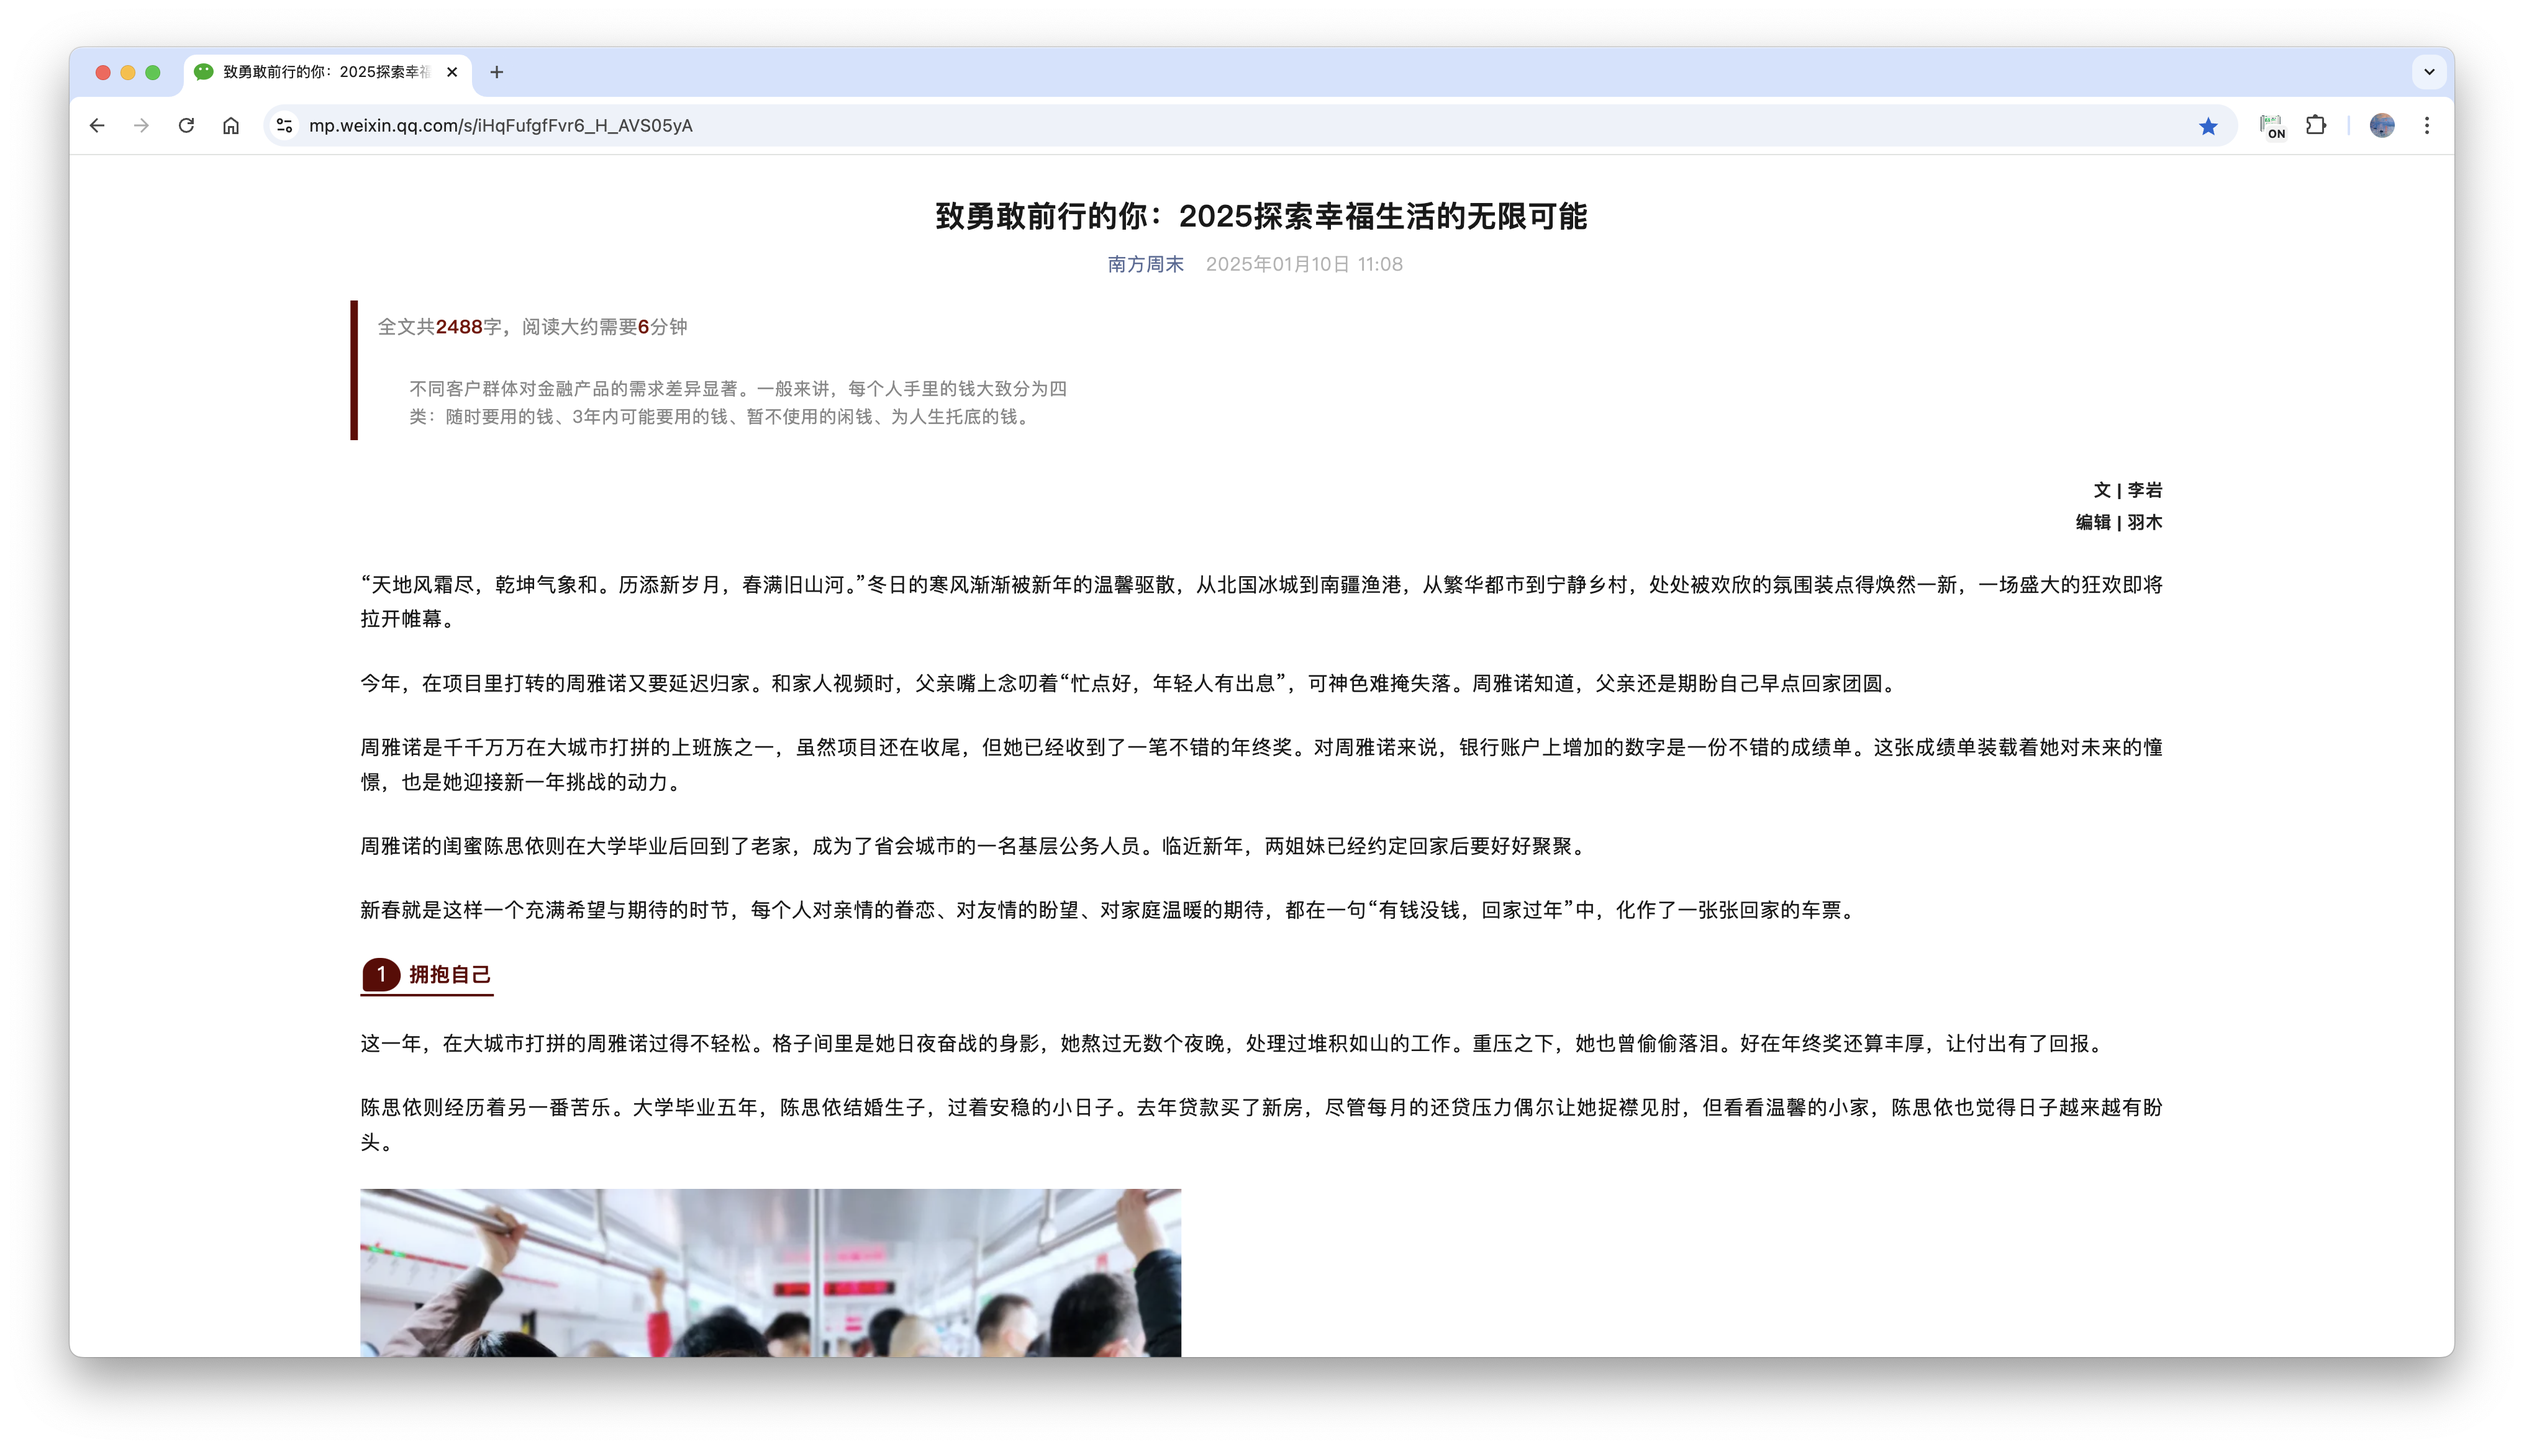
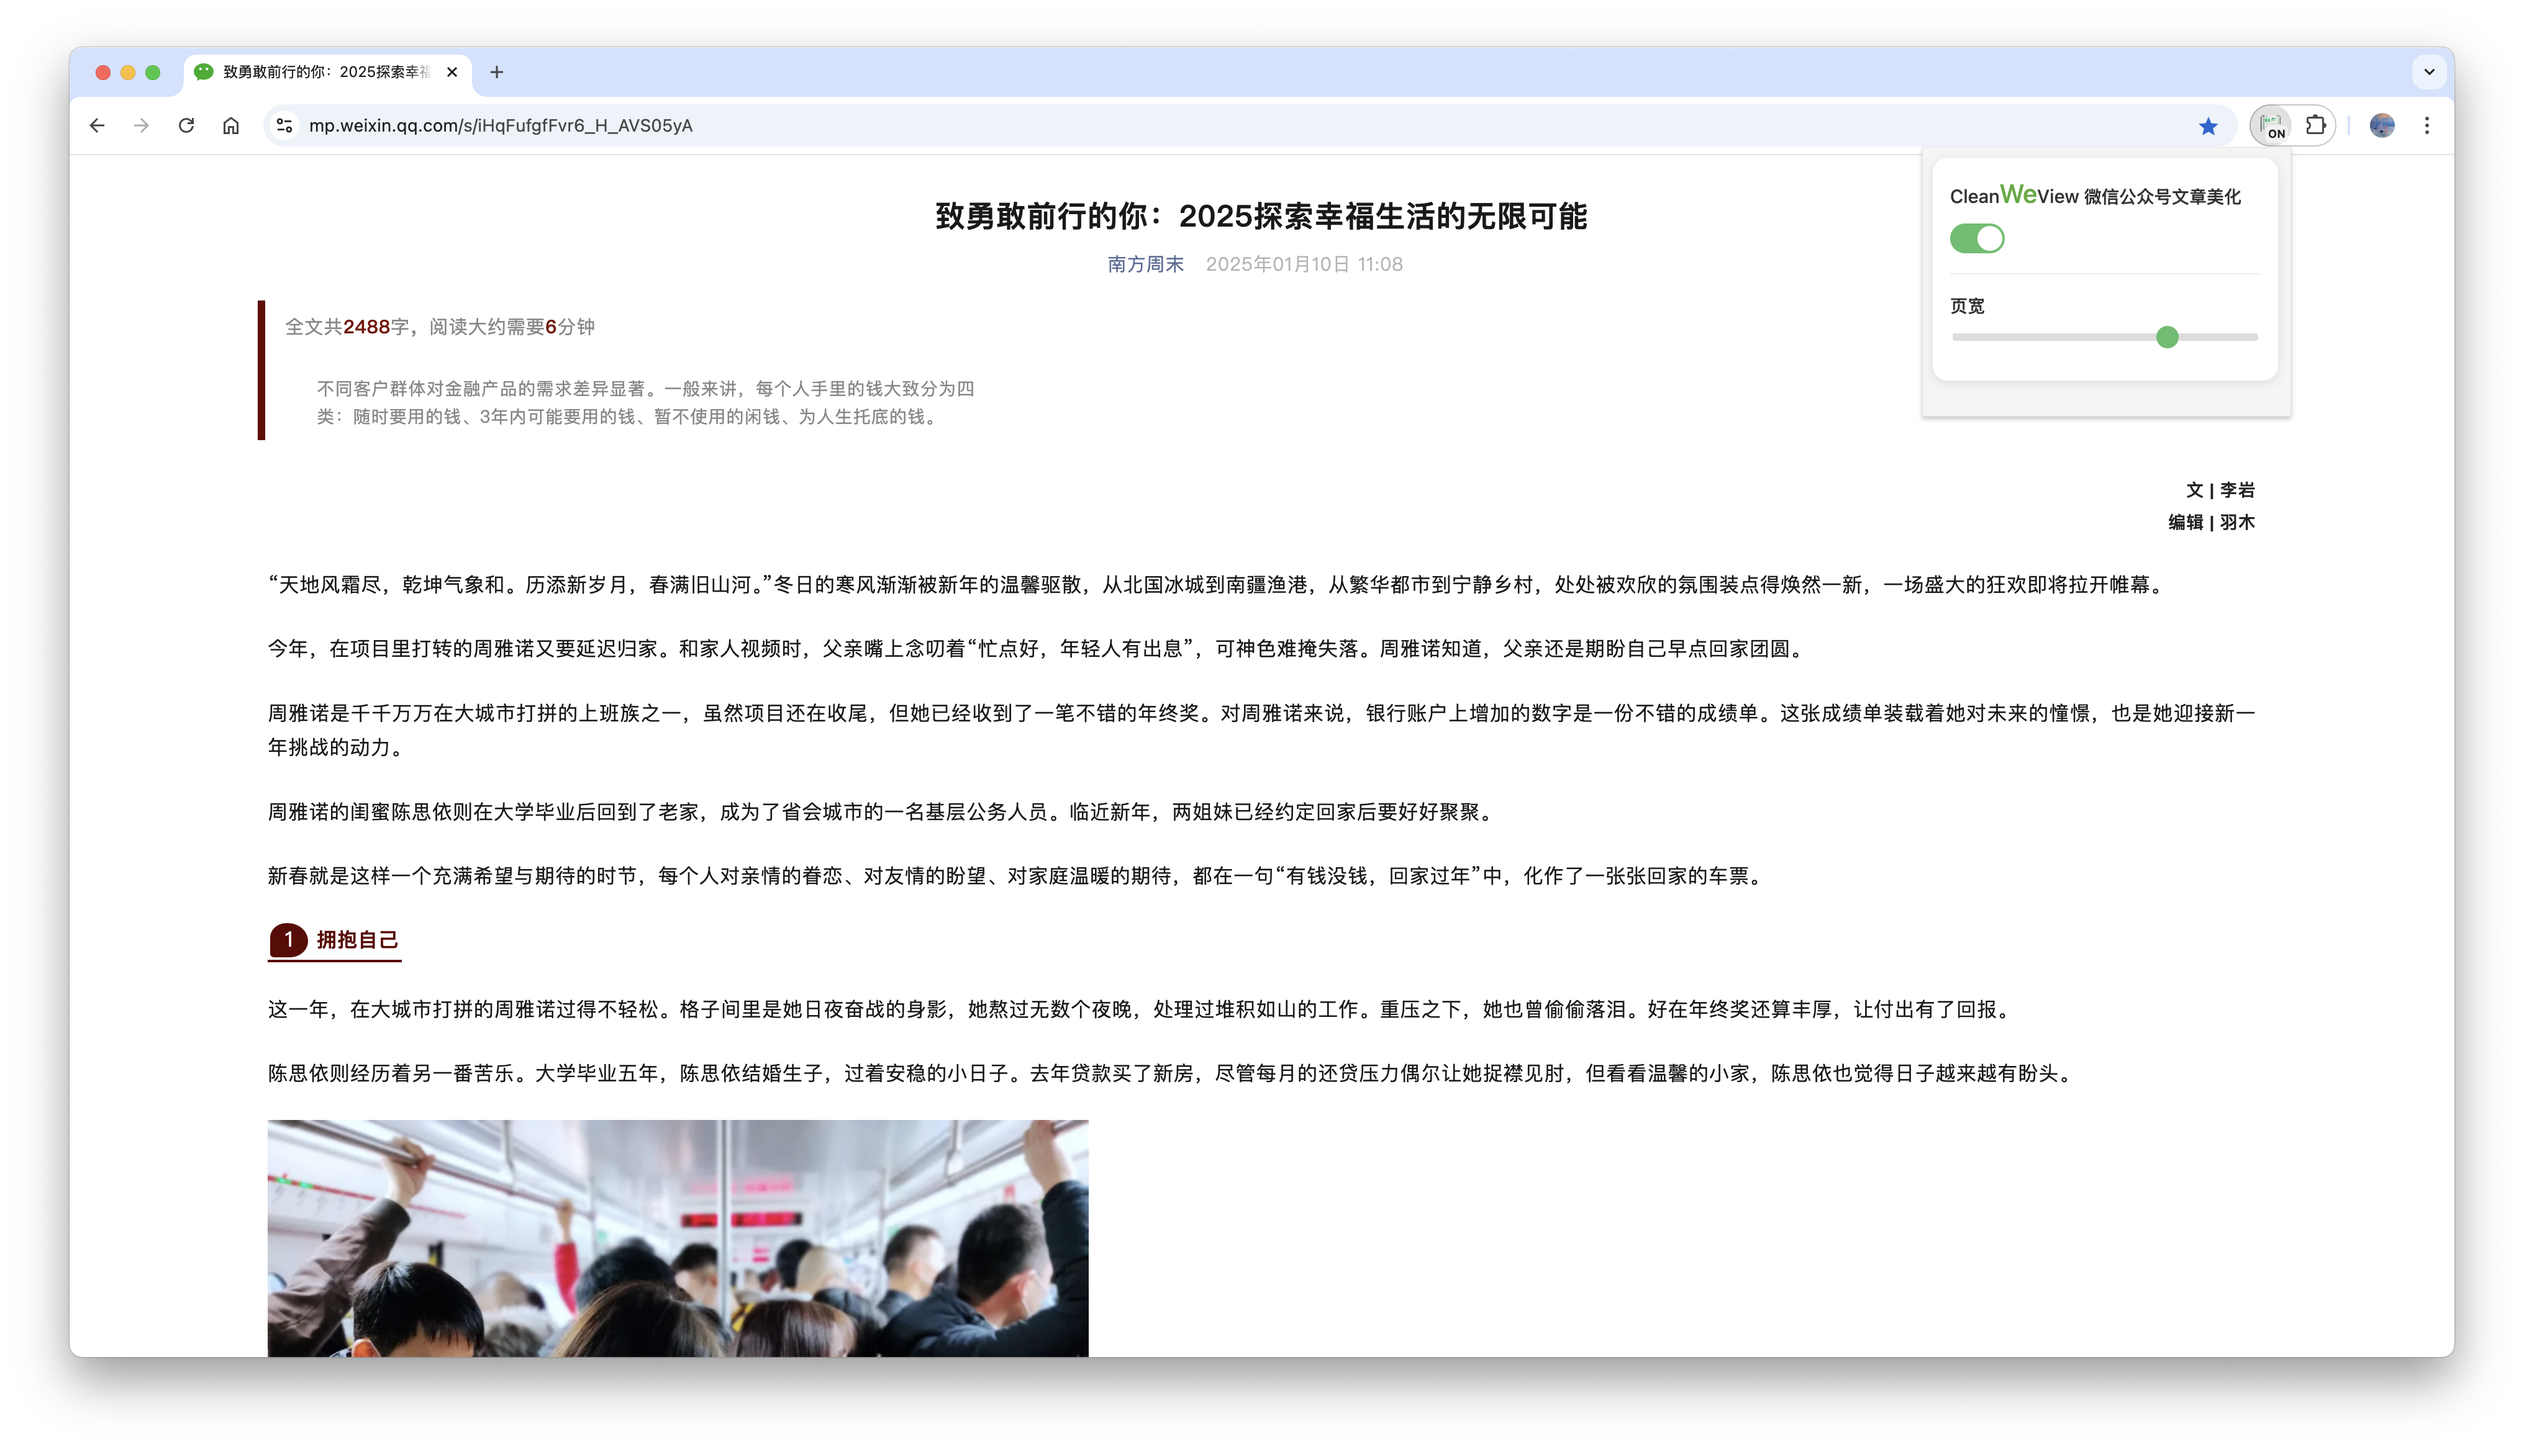
update readme for v1.1

diff --git a/readme.md b/readme.md
@@ -1,14 +1,30 @@
-# CleanWeView 微信公众号文章网页美化工具
+# <img src= ".\images\title_icon.png" style="zoom:5%;" /> CleanWeView  微信公众号文章网页美化工具
 
-专为优化PC端微信公众号文章的阅读体验而设计
+CleanWeView ： 微信公众号文章网页美化工具
+
+专为优化 PC 端微信公众号文章的阅读体验而设计 。 
+
+CleanWeView能够简化公众号文章的页面布局 ， 保持整洁美观 ， 同时增加页面宽度 ， 显示更多文字内容 。
 
 ## 功能
 
-v1.0.1: 
+v1.1 ：
 
-- 增加页面宽度，显示更多文字内容。
-- 移除QR code，保持页面整洁。
-- 居中标题和作者，保持对称。
+- 增加设置界面 ， 内置交互式开关按钮
+
+- 支持页宽调整
+
+v1.0.1 ：
+
+- Debug ： 增加响应设计以适配不同屏幕尺寸 。
+
+v1.0 ：
+
+- 增加页面宽度 ， 显示更多文字内容 。
+
+- 移除 QR code ， 保持页面整洁 。
+
+- 居中标题和作者 ， 保持对称 。
 
 ## 效果
 
@@ -20,9 +36,11 @@ v1.0.1:
 
 <img src=".\promo\after.png" style="zoom:80%;" />
 
+<img src=".\promo\after1.png" style="zoom:80%;" />
+
 ## 使用方法
 
-安装后点击CleanWeView图标即可开启或关闭插件。
+安装后点击CleanWeView图标即可配置插件功能。
 
 ## 下载
 
